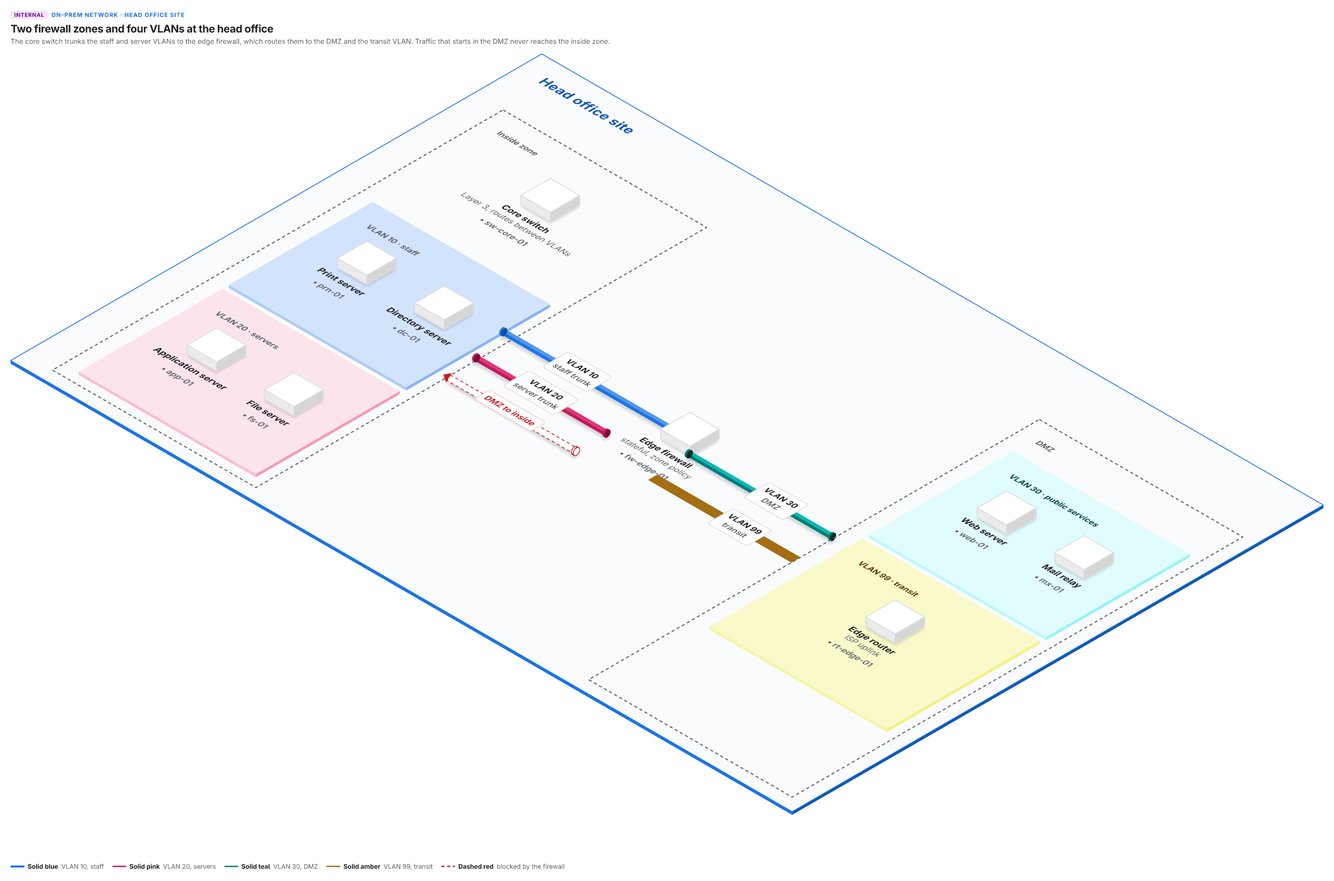
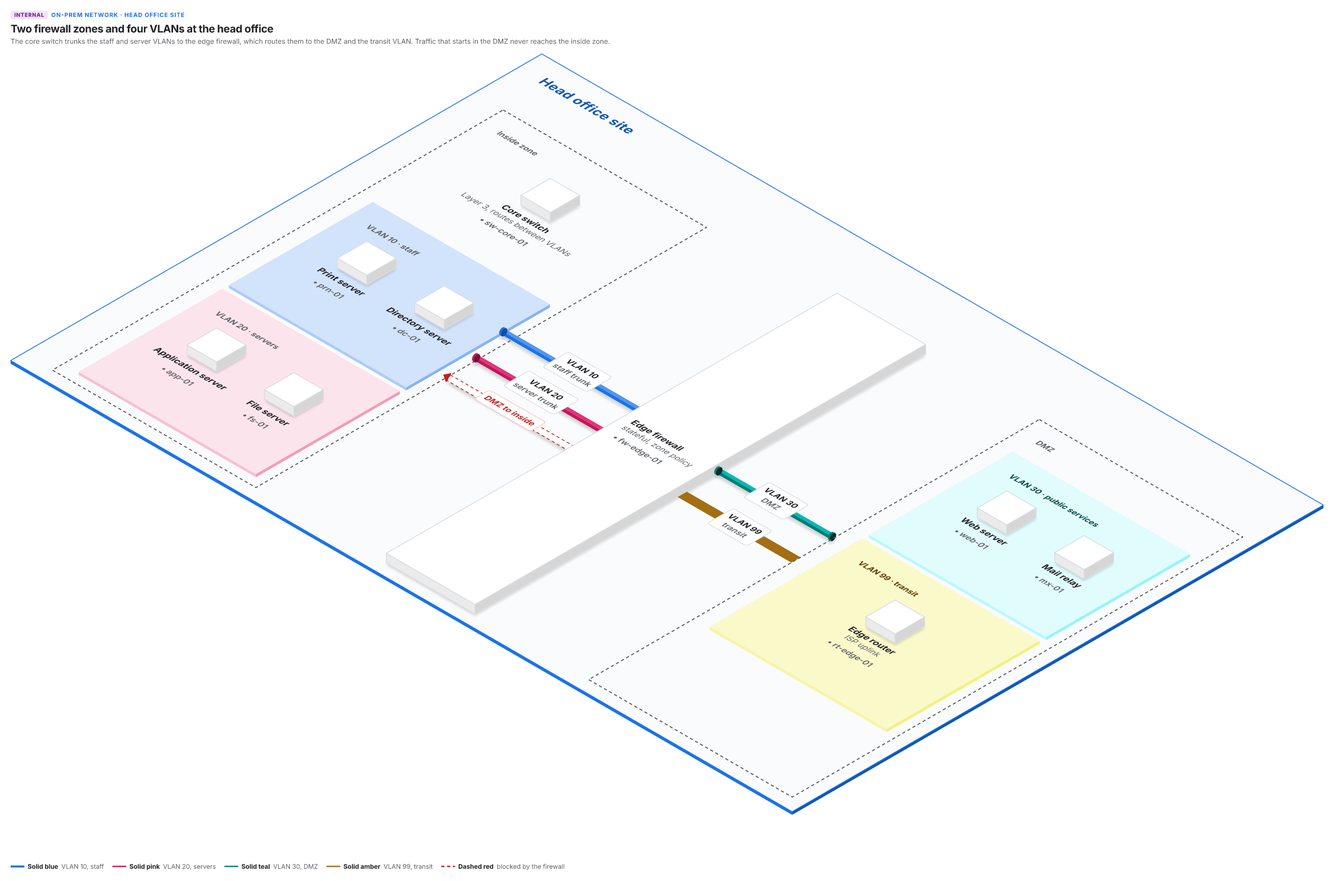
fix(iso): a pipe end lands on the nearest solid across its center, and pipes-land reads the run axis (#53)
An untargeted end landed on the neighbour's outer box, short of the
solid when the neighbour is a Col or an item with wide floor text. It
now lands on the attach box of the nearest node across the pipe's
center in the neighbour's subtree, spanning is read on attach boxes so
no pipe lands on floor text, and pipes-land under iso reports an end
that stops short of its landing box. The on-prem firewall is a card
stretched to the gutter, a wall whose side spans both trunks.

diff --git a/crates/stencil-layout/src/checks.rs b/crates/stencil-layout/src/checks.rs
@@ -5,9 +5,10 @@ use std::collections::HashMap;
 
 use stencil_model::checks::{CheckName, CheckReport, Defect};
 use stencil_model::pointer::NodePointer;
-use stencil_model::{Node, NodeRef, Page, PipeDir, body_nodes};
+use stencil_model::{Node, NodeRef, Page, PipeDir, Projection, body_nodes};
 
 use crate::compute::{PipeTarget, move_extent, targeted_pipes};
+use crate::route::attach_box;
 use crate::route::{link_obstacles, segment_enters};
 use crate::{BoxRect, GEOMETRY_EPSILON_PX, NodeTag, PageGeometry, Part, PartName, RouteStatus};
 
@@ -419,6 +420,16 @@ enum TargetEnd {
 }
 
 impl TargetEnd {
+    /// The side of the pipe this end lies on, as pipes-land names sides.
+    fn side_name(self, dir: PipeDir) -> &'static str {
+        match (dir, self) {
+            (PipeDir::Horizontal, TargetEnd::From) => "left",
+            (PipeDir::Horizontal, TargetEnd::To) => "right",
+            (PipeDir::Vertical, TargetEnd::From) => "above",
+            (PipeDir::Vertical, TargetEnd::To) => "below",
+        }
+    }
+
     fn as_str(self) -> &'static str {
         match self {
             TargetEnd::From => "from",
@@ -475,6 +486,47 @@ fn target_end_defect(
         "{} target {} lies {wrong_side} the pipe",
         end.as_str(),
         target.pointer
+    ))
+}
+
+/// The defect of an end whose dot does not lie on the near edge of the box it lands on
+/// along the run, under iso; None when it does. `side` is the end's side of the pipe.
+fn run_axis_defect(
+    pipe: &crate::NodeGeometry,
+    dir: PipeDir,
+    side: &str,
+    (landing, attach): (usize, BoxRect),
+    geometry: &PageGeometry,
+) -> Option<String> {
+    let before = side == "left" || side == "above";
+    let part = if before {
+        PartName::DotStart
+    } else {
+        PartName::DotEnd
+    };
+    let Some(dot) = pipe.part(part) else {
+        return Some(format!("{side} end has no dot part"));
+    };
+    let (dot_center, edge, axis) = match (dir, before) {
+        (PipeDir::Horizontal, true) => (dot.bounds.x + dot.bounds.width / 2.0, attach.right(), "x"),
+        (PipeDir::Horizontal, false) => (dot.bounds.x + dot.bounds.width / 2.0, attach.x, "x"),
+        (PipeDir::Vertical, true) => (dot.bounds.y + dot.bounds.height / 2.0, attach.bottom(), "y"),
+        (PipeDir::Vertical, false) => (dot.bounds.y + dot.bounds.height / 2.0, attach.y, "y"),
+    };
+    let short = if before {
+        dot_center - edge
+    } else {
+        edge - dot_center
+    };
+    if short.abs() <= GEOMETRY_EPSILON_PX {
+        return None;
+    }
+    let landing_pointer = geometry
+        .nodes
+        .get(landing)
+        .map_or_else(String::new, |node| node.pointer.to_string());
+    Some(format!(
+        "{side} end stops {short:.2} px short of {landing_pointer} (attach box edge at {axis} {edge:.2})"
     ))
 }
 
@@ -576,7 +628,23 @@ pub fn pipes_land(page: &Page, geometry: &PageGeometry) -> CheckReport {
                 };
                 examined += 1;
                 let message = match target.node.and_then(|index| geometry.nodes.get(index)) {
-                    Some(target_node) => target_end_defect(pipe, *dir, *end, target_node),
+                    Some(target_node) => {
+                        target_end_defect(pipe, *dir, *end, target_node).or_else(|| {
+                            // Under iso the end reaches the target's attach box along the run.
+                            let index = target.node?;
+                            (page.projection == Projection::Iso)
+                                .then(|| {
+                                    run_axis_defect(
+                                        pipe,
+                                        *dir,
+                                        end.side_name(*dir),
+                                        (index, attach_box(target_node)),
+                                        geometry,
+                                    )
+                                })
+                                .flatten()
+                        })
+                    }
                     None => Some(format!(
                         "{} target \"{}\" is not a geometry node",
                         end.as_str(),
@@ -609,6 +677,29 @@ pub fn pipes_land(page: &Page, geometry: &PageGeometry) -> CheckReport {
                             "{} neighbor {} has no box across the pipe's center {axis} {center:.2}",
                             end.side, neighbor.pointer
                         ),
+                    });
+                    continue;
+                }
+                // Under iso the end also reaches what it lands on along the run (section
+                // 12.3 rule 5): its dot center lies on the near edge of the landing box.
+                if page.projection != Projection::Iso {
+                    continue;
+                }
+                let pipe_before = end.side == "right" || end.side == "below";
+                let Some((landing, attach)) = landing_box(
+                    geometry,
+                    &children_by_parent,
+                    end.neighbor,
+                    (end.dir, center, pipe_before),
+                ) else {
+                    continue;
+                };
+                if let Some(message) =
+                    run_axis_defect(pipe, end.dir, end.side, (landing, attach), geometry)
+                {
+                    defects.push(Defect {
+                        pointer: pipe.pointer.clone(),
+                        message,
                     });
                 }
             }
@@ -709,9 +800,12 @@ fn subtree_spans(
         let Some(node) = geometry.nodes.get(index) else {
             continue;
         };
+        // Spanning is read on the attach box: an item on a footprint spans with the
+        // footprint, not with its floor text.
+        let attach = attach_box(node);
         let (start, end) = match dir {
-            PipeDir::Horizontal => (node.bounds.y, node.bounds.bottom()),
-            PipeDir::Vertical => (node.bounds.x, node.bounds.right()),
+            PipeDir::Horizontal => (attach.y, attach.bottom()),
+            PipeDir::Vertical => (attach.x, attach.right()),
         };
         if pipe_lands_on(node.tag)
             && center >= start - GEOMETRY_EPSILON_PX
@@ -728,6 +822,54 @@ fn subtree_spans(
 
 /// A pipe points at a box it can land on. A Row, Col or Lanes only arranges its children,
 /// so it never counts; the page-level tags never occur inside a body subtree.
+/// The node an untargeted pipe end lands on under iso, and its attach box: of the nodes in
+/// the subtree at `root`, `root` included, that may carry a pipe and span `center` on the
+/// pipe's cross axis, the one whose near edge lies closest to the pipe along the run. The
+/// pipe lies before the subtree when `pipe_before` is true. None when nothing spans.
+pub(crate) fn landing_box(
+    geometry: &PageGeometry,
+    children_by_parent: &[Vec<usize>],
+    root: usize,
+    (dir, center, pipe_before): (PipeDir, f32, bool),
+) -> Option<(usize, BoxRect)> {
+    let mut pending = vec![root];
+    let mut nearest: Option<(usize, BoxRect, f32)> = None;
+    for _ in 0..geometry.nodes.len() {
+        let Some(index) = pending.pop() else {
+            break;
+        };
+        let Some(node) = geometry.nodes.get(index) else {
+            continue;
+        };
+        // An item standing on a footprint spans with that footprint, not with its floor
+        // text, so a pipe never lands on a name.
+        let attach = attach_box(node);
+        let (start, end) = match dir {
+            PipeDir::Horizontal => (attach.y, attach.bottom()),
+            PipeDir::Vertical => (attach.x, attach.right()),
+        };
+        if pipe_lands_on(node.tag)
+            && center >= start - GEOMETRY_EPSILON_PX
+            && center <= end + GEOMETRY_EPSILON_PX
+        {
+            // The edge the pipe reaches: a signed distance along the run, smaller is nearer.
+            let edge = match (dir, pipe_before) {
+                (PipeDir::Horizontal, true) => attach.x,
+                (PipeDir::Horizontal, false) => -attach.right(),
+                (PipeDir::Vertical, true) => attach.y,
+                (PipeDir::Vertical, false) => -attach.bottom(),
+            };
+            if nearest.is_none_or(|(_, _, known)| edge < known) {
+                nearest = Some((index, attach, edge));
+            }
+        }
+        if let Some(children) = children_by_parent.get(index) {
+            pending.extend(children.iter().copied());
+        }
+    }
+    nearest.map(|(index, attach, _)| (index, attach))
+}
+
 fn pipe_lands_on(tag: NodeTag) -> bool {
     match tag {
         NodeTag::Zone

diff --git a/crates/stencil-layout/tests/pipes_land.rs b/crates/stencil-layout/tests/pipes_land.rs
@@ -181,3 +181,56 @@ fn a_vertical_pipe_is_examined_against_the_col_neighbors_above_and_below() {
         defect.message
     );
 }
+
+/// Section 12.3 rule 5 under iso: an untargeted end reaches the nearest node across the
+/// pipe's center in the neighbour's subtree, so a Col holding one item with floor text
+/// wider than its footprint still gets the tube on its solid; pipes-land reads the run axis.
+#[test]
+fn an_iso_pipe_end_reaches_the_solid_inside_a_col_and_a_short_end_is_a_defect() {
+    let page = page_from(json!({
+        "title": "Title", "kicker": "Kicker", "lede": "Lede", "width": 1100,
+        "canvas": "customer", "projection": "iso", "legend": [],
+        "body": [{ "tag": "Row", "gap": 32, "children": [
+            { "tag": "Box", "kind": "onprem", "label": "Site", "children": [
+                { "tag": "Item", "kind": "product", "title": "Edge" } ] },
+            { "tag": "Col", "children": [
+                { "tag": "Pipe", "dir": "h", "line": "solid", "label": "VLAN 1" } ] },
+            { "tag": "Col", "children": [
+                { "tag": "Item", "kind": "product", "title": "Edge firewall",
+                  "subtitle": "stateful, zone policy across both sites" } ] } ] }]
+    }));
+    let mut geometry = layout(&page);
+    let report = pipes_land(&page, &geometry);
+    assert_eq!(report.outcome(), CheckOutcome::Passed, "{report:?}");
+    assert_eq!(report.examined, 2);
+    let firewall = geometry
+        .nodes
+        .iter()
+        .find(|node| node.pointer.as_str() == "/body/0/children/2/children/0")
+        .unwrap();
+    let footprint = firewall
+        .part(stencil_layout::PartName::Footprint)
+        .unwrap()
+        .bounds;
+    let pipe = geometry
+        .nodes
+        .iter_mut()
+        .find(|node| node.pointer.as_str() == "/body/0/children/1/children/0")
+        .unwrap();
+    let dot = pipe
+        .parts
+        .iter_mut()
+        .find(|part| part.name == stencil_layout::PartName::DotEnd)
+        .unwrap();
+    assert!((dot.bounds.x + dot.bounds.width / 2.0 - footprint.x).abs() < 0.01);
+    dot.bounds.x -= 10.0;
+    let short = pipes_land(&page, &geometry);
+    assert_eq!(short.outcome(), CheckOutcome::Failed, "{short:?}");
+    assert!(
+        short.defects[0]
+            .message
+            .starts_with("right end stops 10.00 px short of /body/0/children/2/children/0"),
+        "{:?}",
+        short.defects
+    );
+}

diff --git a/crates/stencil-layout/src/pipe_ends.rs b/crates/stencil-layout/src/pipe_ends.rs
@@ -4,7 +4,7 @@
 
 use stencil_model::{Node, NodeRef, Page, PipeDir, Projection, body_nodes};
 
-use crate::checks::{children_by_parent, pipe_ends};
+use crate::checks::{children_by_parent, landing_box, pipe_ends};
 use crate::compute::targeted_pipes;
 use crate::route::attach_box;
 use crate::{BoxRect, NodeTag, PageGeometry, PartName};
@@ -55,13 +55,31 @@ pub(crate) fn extend_pipe_ends(page: &Page, geometry: &mut PageGeometry) {
             (before_side, PartName::DotStart, from_target),
             (after_side, PartName::DotEnd, to_target),
         ] {
+            // An untargeted end reaches the nearest node across the pipe's center in the
+            // neighbour's subtree, not the neighbour's outer box: a Col or an item with
+            // wide floor text would leave the tube short of the solid.
             let landing: Option<BoxRect> = match target {
                 Some(target) => geometry.nodes.get(target).map(attach_box),
-                None => ends
-                    .iter()
-                    .find(|end| end.side == side)
-                    .and_then(|end| geometry.nodes.get(end.neighbor))
-                    .map(|neighbor| neighbor.bounds),
+                None => ends.iter().find(|end| end.side == side).and_then(|end| {
+                    let center = match dir {
+                        PipeDir::Horizontal => geometry
+                            .nodes
+                            .get(pipe)
+                            .map(|node| node.bounds.y + node.bounds.height / 2.0),
+                        PipeDir::Vertical => geometry
+                            .nodes
+                            .get(pipe)
+                            .map(|node| node.bounds.x + node.bounds.width / 2.0),
+                    }?;
+                    let pipe_before = part == PartName::DotEnd;
+                    landing_box(
+                        geometry,
+                        &children,
+                        end.neighbor,
+                        (*dir, center, pipe_before),
+                    )
+                    .map(|(_, attach)| attach)
+                }),
             };
             let Some(bounds) = landing else {
                 continue;

diff --git a/docs/SPEC.md b/docs/SPEC.md
@@ -2270,7 +2270,7 @@ The page-level nodes draw no solid. Nested filled zones stack: a top-level zone 
 2. Face paint. Fills and strokes come from the palette (section 12.6): `Palette::slab_faces` for a zone and `Palette::block_faces` for a block, from the node's flat fill (the zone fill of section 2.4, the gcp body fill, the card fill for a Pcard and a Text block, the fact fill for a Fact, the callout tint for a Callout) and its flat border. A node with no flat fill (vpc, Note, Frame) draws its faces with `fill="none"`; a Note has neither fill nor border and draws no faces, but still occupies its block height for its label.
 3. Silhouette. The six silhouette vertices of a box with border box (x0, y0, x1, y1), base z0 and top z1 are, in order: (x0, y0, z1), (x1, y0, z1), (x1, y0, z0), (x1, y1, z0), (x0, y1, z0), (x0, y1, z1). Their projection is the convex hexagon that the three visible faces cover exactly.
 4. Top-face drawing. The Callout Accent part and the Frame diagonals are projected onto the top face as polygons and lines at `base_z + height`, in their flat paint. The gcp Bar part is not drawn: a band along the back edge is the heaviest mass on the page and carries no meaning the label chip and the brand blue side faces do not.
-5. Pipe. The wire is a tube of radius `ISO_TUBE_RADIUS_PX` = 5 lying on the Pipe's base_z, its axis at base_z + 5, from the start dot center to the end dot center; at an arrowed end the tube stops at the cone's base. The tube is screen geometry from the flat endpoints (`iso::tube`): a cross-section is the circle of the radius in the vertical plane across the run, projected as 24 points; the body is the parallelogram between the two silhouette offsets of that circle, the extremes across the projected run, split along the axis into a lit upper half and a shaded lower half. The far cap is drawn under the body as its rounded end and the near cap over it; the near end is the one the run leaves toward +x or +y, whose face the viewer sees. A dot end carries a flange ring, a tube of `FLANGE_RADIUS_PX` = 7 and `FLANGE_LENGTH_PX` = 4 on the same axis, in the dot's style: none draws nothing, hollow draws an outlined ring, filled a filled one. An arrowed end carries a cone of `CONE_LENGTH_PX` = 12 and base radius `CONE_RADIUS_PX` = 8.5 whose tip lies where the flat arrowhead's tip lies; its base circle is drawn over the cone only when the base faces the viewer. A tube is filled when the theme shades faces and the line is solid: the body halves are the wire color and that color `TUBE_LIT_STEP` = 12 points lighter, the near cap and a visible cone base `TUBE_CAP_STEP` = 16 points darker. A theme whose face steps are all zero draws every tube hollow, as the page background outlined in the wire color; a dashed or deny line draws a hollow tube whose outline carries its pattern; a cone is always filled. Every piece is a `<polygon>`, so no `<ellipse>` and no `<line>` remain in a pipe. The tag pill lies on the plane at the tube's top, base_z + 10 (section 12.4), and masks the tube's middle. A Pipe with `"form": "band"` (`PipeForm`, default `tube`) is a band instead: a flat wide arrow lying on the plane at base_z, for a wide flow across a row. Its body is the rectangle of half-width `BAND_HALF_WIDTH_PX` = 10 between the dot centers, stopping at each arrowhead's base, and an arrowed end carries the flat triangle of `BAND_HEAD_LENGTH_PX` = 24 and half-width `BAND_HEAD_HALF_WIDTH_PX` = 18 with its tip where the flat arrowhead's tip lies; a dot end is square. It is painted like a tube, filled in the wire color or hollow with the line's pattern, each piece a `<polygon>`. A band's solid has no height, so its tag pill lies on the plane at base_z. The flat writer draws a band as the wire of section 2.7. Under iso a pipe end reaches what it joins (`pipe_ends::extend_pipe_ends`, after the slots of section 13.8 move): each dot part moves outward along the run until its center lies on the near edge of the neighbour box the end lands on (section 6), or, when the pipe names that end's target, on the near edge of the target's attach box; an end never moves inward, and flat moves nothing. A tube or band therefore never stops a Row gap short of the slab or solid it joins.
+5. Pipe. The wire is a tube of radius `ISO_TUBE_RADIUS_PX` = 5 lying on the Pipe's base_z, its axis at base_z + 5, from the start dot center to the end dot center; at an arrowed end the tube stops at the cone's base. The tube is screen geometry from the flat endpoints (`iso::tube`): a cross-section is the circle of the radius in the vertical plane across the run, projected as 24 points; the body is the parallelogram between the two silhouette offsets of that circle, the extremes across the projected run, split along the axis into a lit upper half and a shaded lower half. The far cap is drawn under the body as its rounded end and the near cap over it; the near end is the one the run leaves toward +x or +y, whose face the viewer sees. A dot end carries a flange ring, a tube of `FLANGE_RADIUS_PX` = 7 and `FLANGE_LENGTH_PX` = 4 on the same axis, in the dot's style: none draws nothing, hollow draws an outlined ring, filled a filled one. An arrowed end carries a cone of `CONE_LENGTH_PX` = 12 and base radius `CONE_RADIUS_PX` = 8.5 whose tip lies where the flat arrowhead's tip lies; its base circle is drawn over the cone only when the base faces the viewer. A tube is filled when the theme shades faces and the line is solid: the body halves are the wire color and that color `TUBE_LIT_STEP` = 12 points lighter, the near cap and a visible cone base `TUBE_CAP_STEP` = 16 points darker. A theme whose face steps are all zero draws every tube hollow, as the page background outlined in the wire color; a dashed or deny line draws a hollow tube whose outline carries its pattern; a cone is always filled. Every piece is a `<polygon>`, so no `<ellipse>` and no `<line>` remain in a pipe. The tag pill lies on the plane at the tube's top, base_z + 10 (section 12.4), and masks the tube's middle. A Pipe with `"form": "band"` (`PipeForm`, default `tube`) is a band instead: a flat wide arrow lying on the plane at base_z, for a wide flow across a row. Its body is the rectangle of half-width `BAND_HALF_WIDTH_PX` = 10 between the dot centers, stopping at each arrowhead's base, and an arrowed end carries the flat triangle of `BAND_HEAD_LENGTH_PX` = 24 and half-width `BAND_HEAD_HALF_WIDTH_PX` = 18 with its tip where the flat arrowhead's tip lies; a dot end is square. It is painted like a tube, filled in the wire color or hollow with the line's pattern, each piece a `<polygon>`. A band's solid has no height, so its tag pill lies on the plane at base_z. The flat writer draws a band as the wire of section 2.7. Under iso a pipe end reaches what it joins (`pipe_ends::extend_pipe_ends`, after the slots of section 13.8 move): each dot part moves outward along the run until its center lies on the near edge of the landing box: the attach box (an item's footprint when it stands on one, else its bounds) of the node nearest along the run among those in the neighbour's subtree (section 6), the neighbour included, that may carry a pipe and whose attach box spans the pipe's center on the cross axis, or, when the pipe names that end's target, the near edge of the target's attach box; an end whose neighbour subtree holds no such node, an end that would land on an item's floor text among them, stays; an end never moves inward, and flat moves nothing. Under iso `pipes-land` reads the attach boxes for the cross-axis rule of section 6 and adds the run axis: the dot center lies on the landing box's near edge, else `<side> end stops D px short of NODE (attach box edge at x E)`. A tube or band therefore never stops a Row gap short of the slab or solid it joins.
 6. Tee. The spine is a tube down the projected spine center line, from the spine box's top to its bottom, built and painted as a Pipe's tube with a cap at each end. Under iso the spine moves to stand on the right edge of the Tee's left neighbour, and its arms' start dots with it. The hub lies on the plane at the tube's top, with `ISO_TAG_CLEARANCE_PX` of margin above and below it under iso so the arms' tags stay clear of it (section 12.4).
 8. Shapes. An Item stands as the `Shape` of section 13.1: its own `shape`, else the `shape` of its icon's row in the kind's product table, else the kind's `shape`, else card (`products::item_shape`). The gcp `product` kind and plain's `service`, `store` and `external` name `block`, so under iso an item stands as a block of a fixed footprint with its text on the floor unless its icon's row or the author says otherwise; `"shape": "card"` keeps the raised card with its content on top. The gcp table makes databases and analytics cylinders, storage stacks, compute and containers towers, networking and hybrid tiles; the `person` kind of gcp and plain stands as a figure and the `device` kind as a laptop, with `"shape": "phone"` on the item for a phone. A card is laid out and drawn as before. Every other shape is laid out under iso as a column: a square `Footprint` part (`shape_footprint_px`: 64 tile and block, 44 tower, 56 cylinder and stack, 44 figure, 56 laptop, 36 phone; `shape_height_px`: 6 tile, 18 block, 44 tower, 36 cylinder, 30 stack, 56 figure, 40 laptop, 44 phone) holding the Icon when the item has one, then the text column centered under it after a gap, with `ISO_FLOOR_TEXT_RESERVE_PX` = 64 kept clear below the text for the strip a raised solid in the next row covers. Its solid rises from the footprint (`Solid.footprint`), with `Solid.form` the shape, `Solid.silhouette` the six vertices of the footprint box and `Solid.outline` the convex outline the checks and the link cut-back read: the six vertices for a box form, for a round form the hull of the base and top ellipses, each the circle inscribed in the footprint mapped by rule 6 of section 12.2 (`ellipse_radii`). A tile, a block and a tower draw the three faces of rule 1 at their heights. A cylinder draws its visible side as two `<path>` halves, left and right of the front line, in the left and right face paints, then its top `<ellipse>` in the top paint; a stack draws three such cylinders of (height - 2 gaps) / 3 with `STACK_GAP_PX` = 2 between them, bottom to top. A round solid's shadow is its base ellipse, lowered and blurred like a block's. The sprites (`iso::sprites`) are composed of these primitives inside the footprint. A figure is a torso cylinder of 0.62 of the footprint side, centered, up to 0.56 of the height, then a 2 px neck and a head sphere filling the rest, drawn as a `<circle>`; a figure is painted as a dark silhouette in the theme's secondary ink (`Palette::figure_paint`: the top 14 points lighter, the right side 12 points darker), not in the card's fill; its outline is the hull of the torso ellipses and the head, and its shadow the torso's base ellipse. A laptop is a 3 px base plate over the footprint and a 4 px deep screen slab standing on the plate's back edge up to the height, with a screen panel on the slab's front face inset 3 px and 28 points darker than the right face; its outline is the hull of both silhouettes and its shadow the plate's. A phone is a 6 px deep slab of 0.6 of the footprint's width standing across its middle, facing +y, with the same panel; its outline and shadow are the slab's. Links attach to the footprint, not the item's box, and never to its bottom side unless the author says so, because the text lies there; the item's Text part is an obstacle for its own links.
 7. Links. A link runs over the terrain: the footprints of the slabs with height. Its routed polyline of section 11.2 is lifted whole to the top of the highest slab it runs over (`drape::route_z`: every segment is sampled at the midpoint of each span between its footprint-edge crossings, and the route's first point), so it lies on the highest terrain it crosses and floats over lower floor by at most that difference; there are no risers and no pass-unders. Collinear points are merged. Each end is then cut back to where the path enters the silhouette of its endpoint block on screen: an end on a block's bottom or right side lies on the silhouette already and stays; an end on a top or left side reaches a face the viewer cannot see, and without the cut its last stretch would be drawn across the block's top face. A zone endpoint is not cut. `IsoScene.link_paths` holds the result. The writer draws a solid link under a theme that shades faces as a tube per leg of radius `link_tube_radius(kind)` at the zoom (4.5 for solid slot 1, 3 for dash, 2.5 for every other line, the same in every theme), built and painted as a Pipe's tube of rule 5 with a shadow under each leg, a round joint at each corner (a `<circle>` of the radius on the tube's axis, in the wire color), and a cone of `iso_link_arrowhead_length(kind)` (18 for blue, 15 for dash, 14 for gray, pink and deny) and base radius 1.9 times the tube's at each arrowed end; the path is shortened by the cone's length along the last horizontal stretch first. A dashed or deny link, and every link under a theme whose face steps are all zero, is one `<path>` stroked with its kind's stroke and pattern along the path lifted by the tube radius, since a hollow tube would double a patterned line, ending in the same cone. An iso SVG writes no `<marker>`, because a marker draws its triangle unprojected. A link is drawn after every node, as in flat, so it paints over faces; its tag lies on the tube's top, the path height plus twice the radius at the zoom, under the midpoint of its longest leg (section 12.4).
@@ -2629,7 +2629,7 @@ The numbers in this example are illustrative.
 
 Its `iso-labels-clear` count is 234: 14 labels (4 Box names, the icon and the text of the two blocks, of the tile and of the cylinder, 2 link tags) give 91 label pairs, the (label, later opaque solid) pairs of section 12.7 rule 3, the non-opaque labels against 4 slabs and 4 link paths, and the contained item labels. Its `iso-links-clear` count is 9 legs, the approach stubs included. The page has no pipes, so `pipes-land` is not applicable. Without `projection` the document passes the flat checks with `iso-labels-clear` and `iso-links-clear` not applicable.
 
-`examples/onprem-iso.json` is `examples/onprem-network.json` under the plain grammar at width 1700 with `"projection": "iso"`: two firewall zones, four VLAN zones of cards, five pipes into and out of the Edge firewall card, one of them a deny arrow and the transit VLAN a band, and no links. It is the pipe fixture: every tube, flange and cone of rule 5 is in its center SVG, and `check` passes every check that applies to it. Its gallery PNG stands in the README.
+`examples/onprem-iso.json` is `examples/onprem-network.json` under the plain grammar at width 1700 with `"projection": "iso"`: two firewall zones, four VLAN zones of blocks, five pipes into and out of the Edge firewall, a card stretched to the gutter's height so its side spans the trunks on each side, one of them a deny arrow and the transit VLAN a band, and no links. It is the pipe fixture: every tube, flange and cone of rule 5 is in its center SVG, and `check` passes every check that applies to it. Its gallery PNG stands in the README.
 
 `examples/people-iso.json` is the sprite fixture under the plain grammar at width 1200: a Row weighted 3 to 1 of a system Box holding a group Box with a Row of a `person` (Operator), a `device` (Admin console, a laptop) and a `service` (API, a block), and a centered group Box of customers holding a `device` with `"shape": "phone"` (Shop app); the operator links to the laptop, the laptop and the phone to the API. Every sprite of rule 8 is in its center SVG, `check` passes every check that applies to it, and its gallery PNG stands in the README.
 

diff --git a/notes/ledger.md b/notes/ledger.md
@@ -21,3 +21,4 @@ Lessons for sessions in this repository. Every rule names what enforces it.
 | 2026-10-02 | A card stretched across a Row or Col under iso is a huge empty slab with its label in one corner (every judge). Under iso an icon-bearing kind stands as a block of a fixed footprint with its text on the floor, through the kind-level shape; an author who wants the raised card writes shape: card. The straightening of a link between facing sides must read the attach boxes, or footprint items never straighten and jog by the difference of their footprints. Two facing stubs must each stop at half the free run to the other end's box, or they overrun and the search doubles back. | `an_iso_link_over_two_row_neighbours_routes_around_them` and the people-iso check fixture; `plain_has_four_containers_and_five_icon_free_items` and the gcp kind test in crates/stencil-model/tests/grammar.rs |
 | 2026-10-02 | Risers and pass-unders at slab edges read as stroke breaks at deck size (every judge), and a routed link as a thin flat line beside tubes is a second style in one set. A link lies at the highest terrain it crosses and floats over lower floor by the slab thickness, which no reader sees; a solid link is a tube per leg with joints and cones and a shadow, a patterned link one stroked path since a hollow tube doubles a dashed line. The riser model is kept in the ledger rows above as the path tried and dropped. | `a_link_between_two_zones_lies_on_the_zones_top_throughout`, `a_dashed_link_is_one_stroked_path_and_a_solid_one_a_tube_of_polygons` in crates/stencil-render/tests/iso.rs; `a_path_over_two_slabs_lies_on_the_higher_one_throughout` in crates/stencil-render/src/iso/drape.rs |
 | 2026-10-02 | A figure in the card fill on a pale slab reads as a bollard, and a phone of half a 28 px footprint as a sliver (every judge). The figure is a dark silhouette in the secondary ink on a 44 px footprint, 56 tall; the phone 0.6 of a 36 px footprint, 6 deep, 44 tall; the floor text reserve follows the tallest shape. | sprite unit tests in crates/stencil-render/src/iso/sprites.rs; the people-iso and transit-iso center fixtures |
+| 2026-10-02 | An untargeted pipe end landed on its neighbour's outer box, short of the solid when the neighbour is a Col or an item with wide floor text, and pipes-land read only the cross axis on node bounds, so two judge rounds saw floating trunks while every check passed. The end lands on the attach box of the nearest spanning node in the neighbour's subtree, spanning is read on attach boxes so no pipe lands on floor text, and pipes-land reads the run axis under iso. A device with two trunks a side needs an attach box that spans both: the on-prem firewall is a card stretched to the gutter, a wall between the zones. | `an_iso_pipe_end_reaches_the_solid_inside_a_col_and_a_short_end_is_a_defect` in crates/stencil-layout/tests/pipes_land.rs |
